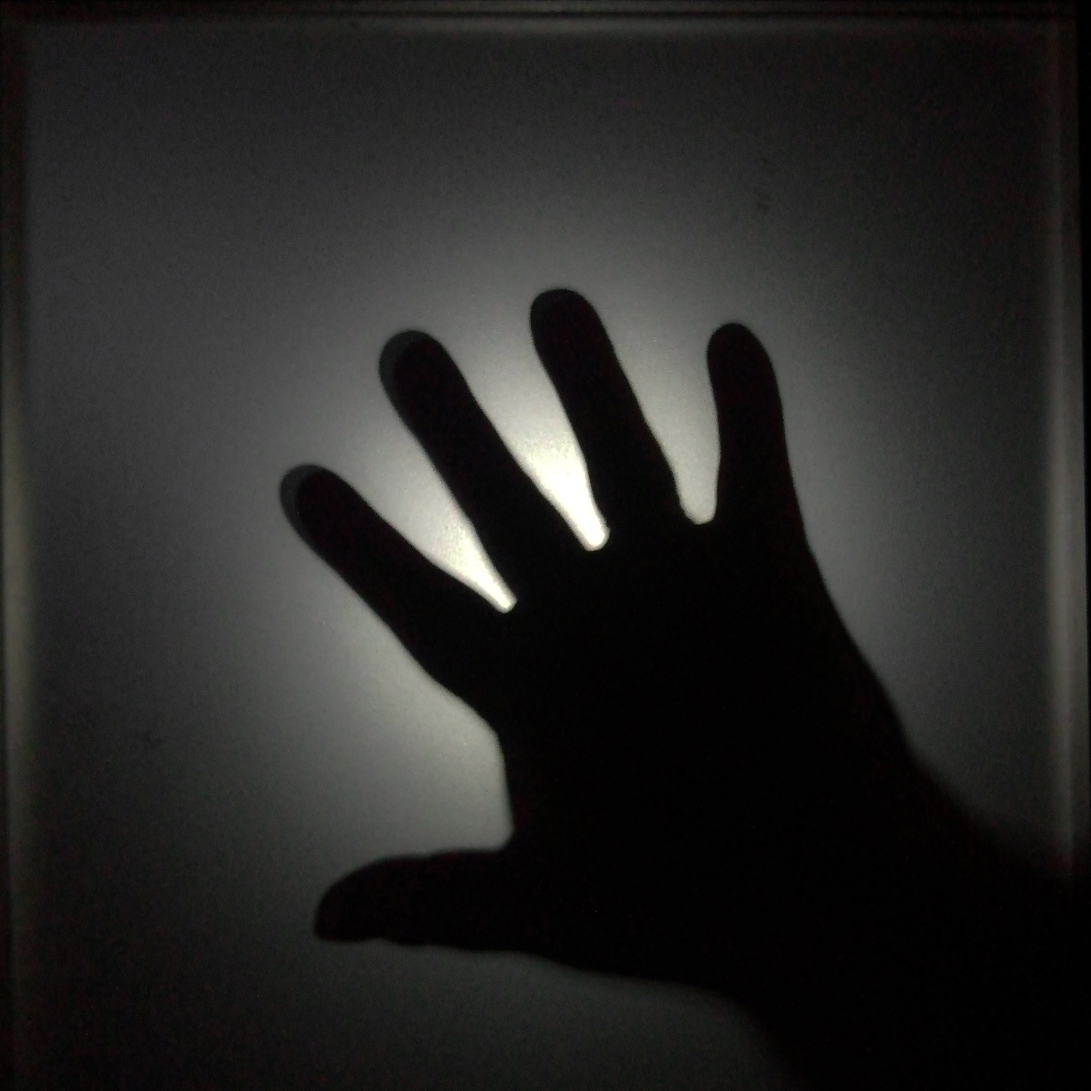
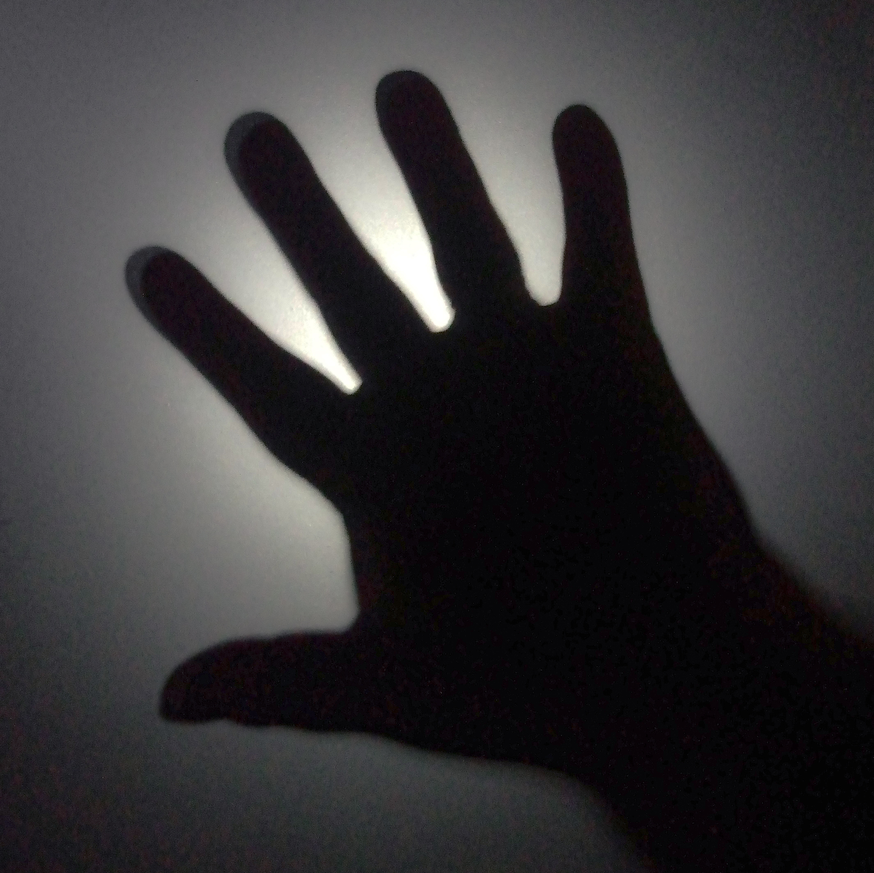
content changes

diff --git a/myworks-page.html b/myworks-page.html
@@ -59,7 +59,7 @@
             <section class="topic">
                 <p class="topic__title">Стікерпак</p>
                 <p class="topic__text">
-                    Першою темою в курсі було створення стікерів. Для класної роботи я вирішила взяти фото із мультфільму "Шрек". Для домашньої роботи я взяла свої фотографії. Щоб створити наліпку, потрібно вирізати фон, додати текст та обведення.
+                    Першою темою в курсі було створення стікерів. Для класної роботи я вирішила взяти фото із мультфільму "Шрек". Щоб створити наліпку, потрібно вирізати фон, додати текст та обведення.
                 </p>
 
                 <div class="swiper">
@@ -74,16 +74,13 @@
                             <img class="swiper-slide__img" src="img/my_works/topic_1/3.png" alt="photo">
                         </div>
                         <div class="swiper-slide">
-                            <img class="swiper-slide__img" src="img/my_works/topic_1/4.png" alt="photo">
+                            <img class="swiper-slide__img" src="img/my_works/topic_1/1.png" alt="photo">
                         </div>
                         <div class="swiper-slide">
-                            <img class="swiper-slide__img" src="img/my_works/topic_1/5.png" alt="photo">
+                            <img class="swiper-slide__img" src="img/my_works/topic_1/2.png" alt="photo">
                         </div>
                         <div class="swiper-slide">
-                            <img class="swiper-slide__img" src="img/my_works/topic_1/6.png" alt="photo">
-                        </div>
-                        <div class="swiper-slide">
-                            <img class="swiper-slide__img" src="img/my_works/topic_1/7.png" alt="photo">
+                            <img class="swiper-slide__img" src="img/my_works/topic_1/3.png" alt="photo">
                         </div>
                     </div>
 
@@ -146,10 +143,16 @@
                             <img class="swiper-slide__img" src="img/my_works/topic_3/4.jpg" alt="photo">
                         </div>
                         <div class="swiper-slide">
+                            <img class="swiper-slide__img" src="img/my_works/topic_3/1.jpg" alt="photo">
+                        </div>
+                        <div class="swiper-slide">
                             <img class="swiper-slide__img" src="img/my_works/topic_3/2.jpg" alt="photo">
                         </div>
                         <div class="swiper-slide">
                             <img class="swiper-slide__img" src="img/my_works/topic_3/3.jpg" alt="photo">
+                        </div>
+                        <div class="swiper-slide">
+                            <img class="swiper-slide__img" src="img/my_works/topic_3/4.jpg" alt="photo">
                         </div>
                     </div>
 
@@ -168,22 +171,22 @@
                <div class="swiper">
                     <div class="swiper-wrapper">
                         <div class="swiper-slide">
-                            <img class="swiper-slide__img" src="img/my_works/topic_4/1.jpg" alt="photo">
+                            <img class="swiper-slide__img swiper-slide__img--scale" src="img/my_works/topic_4/1.jpg" alt="photo">
                         </div>
                         <div class="swiper-slide">
-                            <img class="swiper-slide__img" src="img/my_works/topic_4/2.jpg" alt="photo">
+                            <img class="swiper-slide__img swiper-slide__img--scale" src="img/my_works/topic_4/2.jpg" alt="photo">
                         </div>
                         <div class="swiper-slide">
-                            <img class="swiper-slide__img" src="img/my_works/topic_4/3.jpg" alt="photo">
+                            <img class="swiper-slide__img swiper-slide__img--scale" src="img/my_works/topic_4/3.jpg" alt="photo">
                         </div>
                         <div class="swiper-slide">
-                            <img class="swiper-slide__img" src="img/my_works/topic_4/4.jpg" alt="photo">
+                            <img class="swiper-slide__img swiper-slide__img--scale" src="img/my_works/topic_4/4.jpg" alt="photo">
                         </div>
                         <div class="swiper-slide">
-                            <img class="swiper-slide__img" src="img/my_works/topic_4/5.jpg" alt="photo">
+                            <img class="swiper-slide__img swiper-slide__img--scale" src="img/my_works/topic_4/5.jpg" alt="photo">
                         </div>
                         <div class="swiper-slide">
-                            <img class="swiper-slide__img" src="img/my_works/topic_4/3.jpg" alt="photo">
+                            <img class="swiper-slide__img swiper-slide__img--scale" src="img/my_works/topic_4/6.jpg" alt="photo">
                         </div>
                     </div>
 

diff --git a/styles/scss/style.scss b/styles/scss/style.scss
@@ -302,6 +302,10 @@ main {
                 max-width: 90%;
                 max-height: 100%;
             }
+
+            &--scale{
+                aspect-ratio: 4/3;
+            }
         }
         
         &-active {

diff --git a/styles/css/style.css b/styles/css/style.css
@@ -366,6 +366,9 @@ main {
     max-height: 100%;
   }
 }
+.swiper-slide__img--scale {
+  aspect-ratio: 4/3;
+}
 @media (min-width: 768px) {
   .swiper-slide-active {
     -webkit-transform: scale(1.2);
